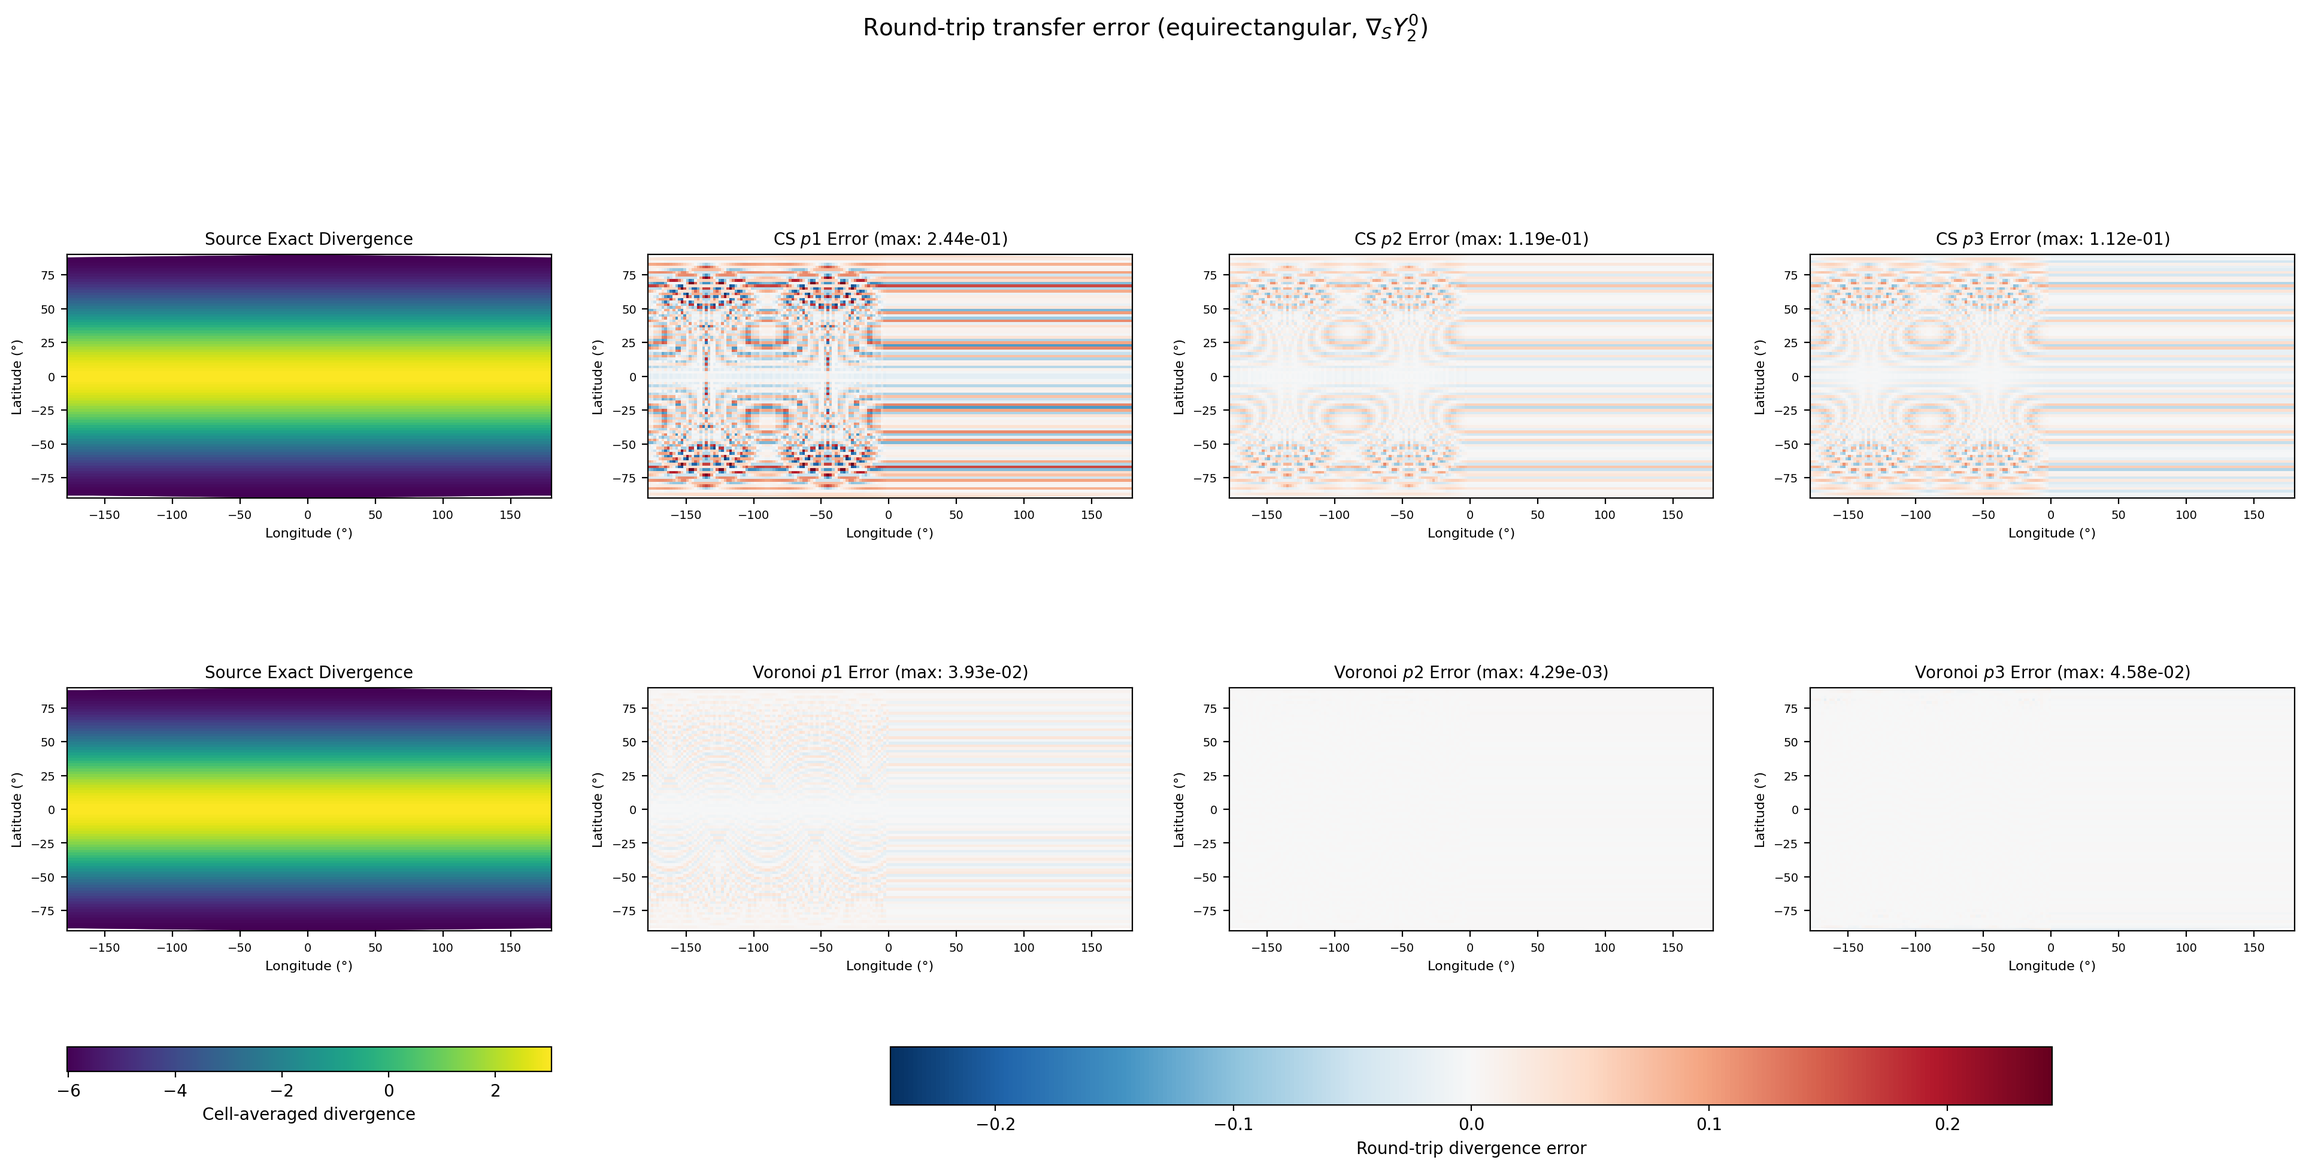
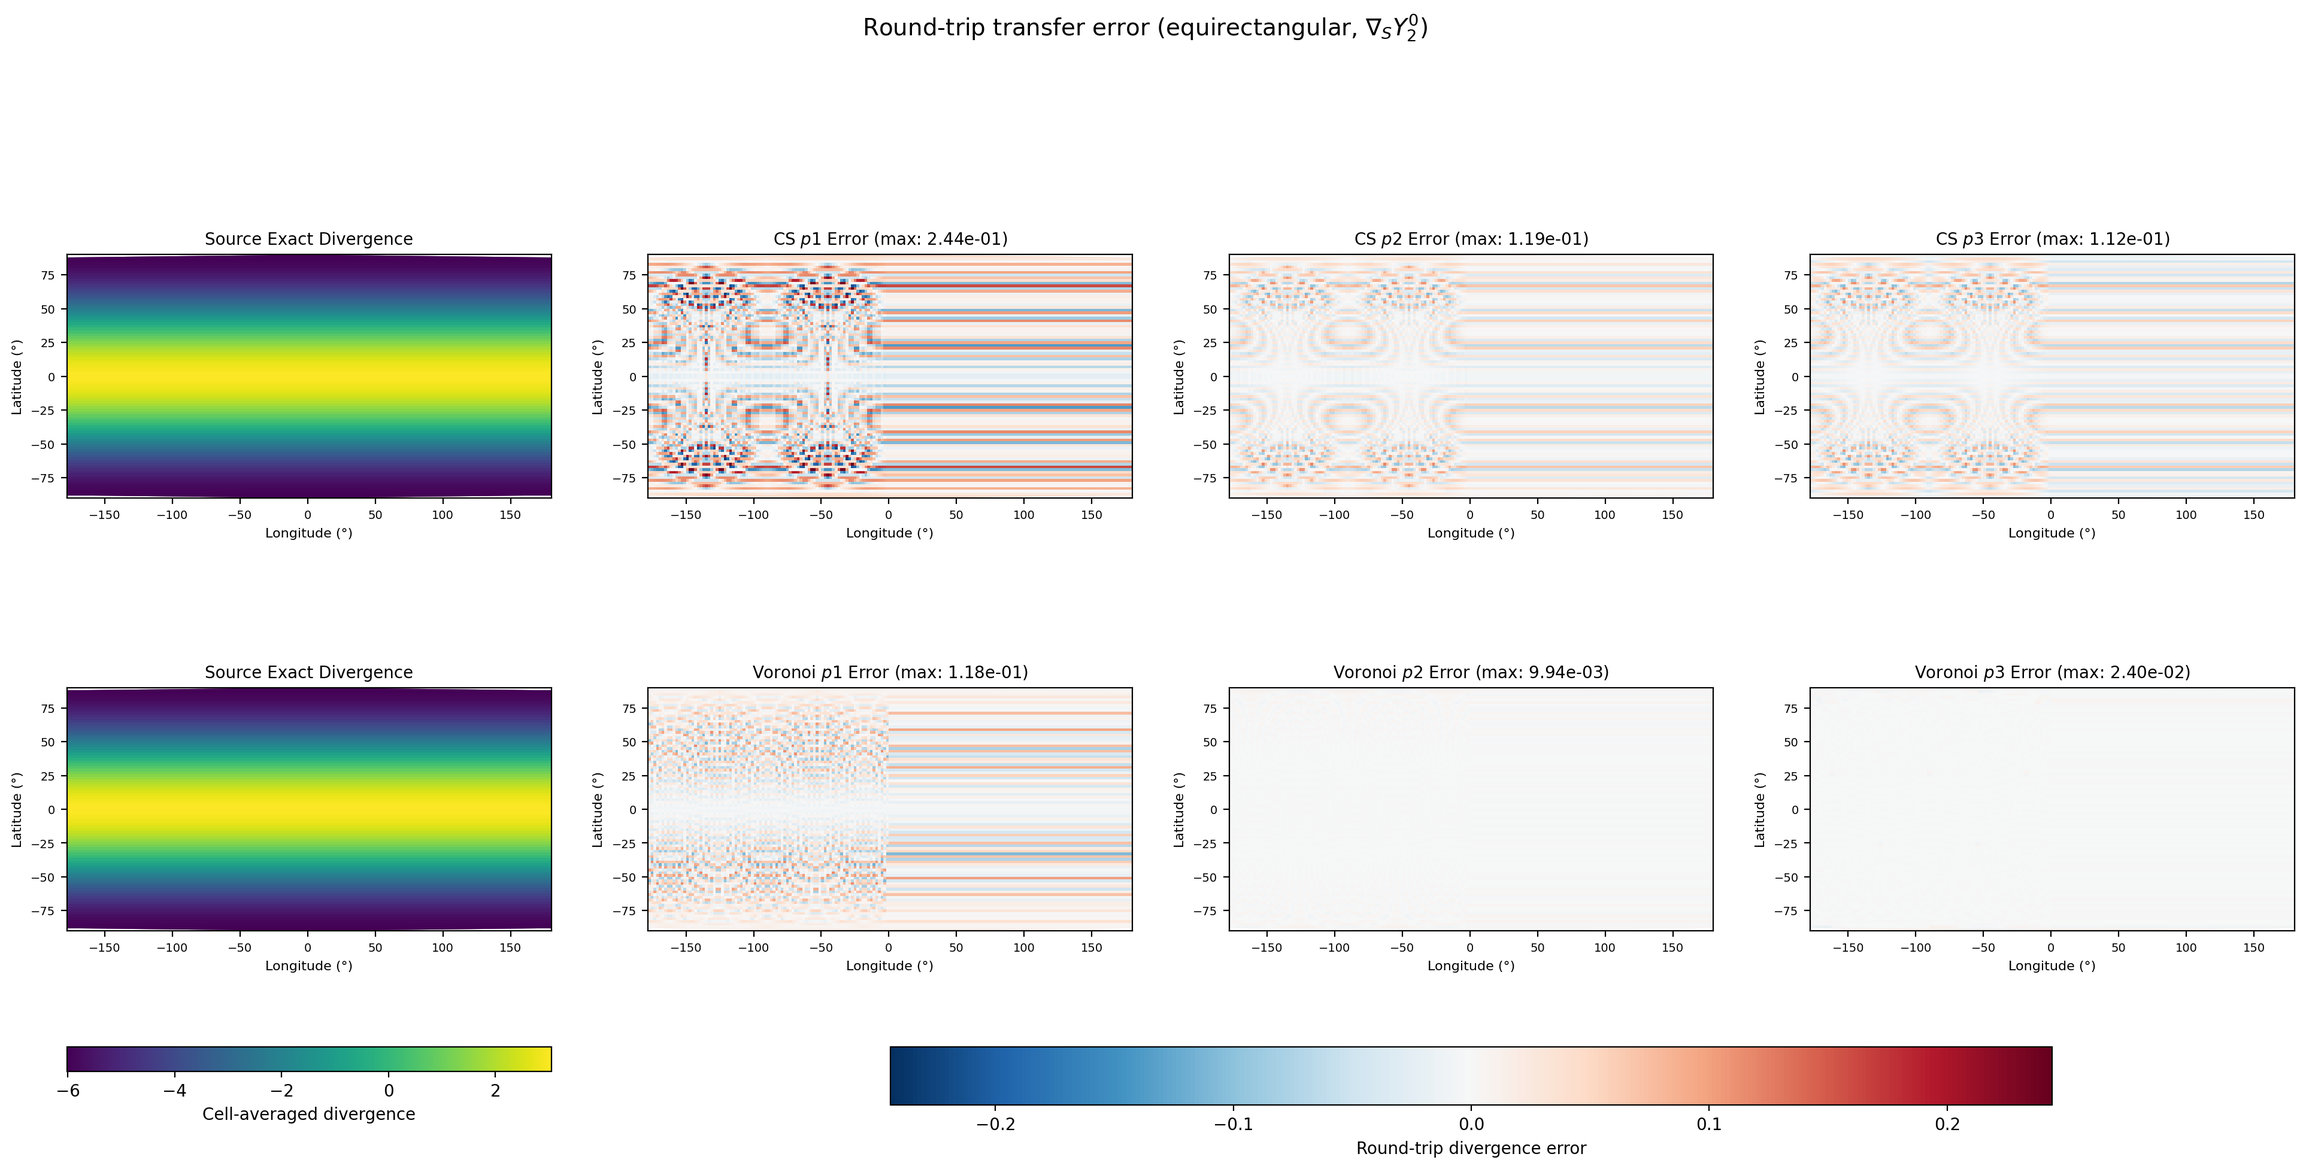
Study 11 + critical bug fix: degree elevation on backward leg causes Voronoi p=3 failure
Bug discovered: metric_weighted=true on the backward Voronoi reconstruction expands
the internal basis to 42 dimensions (degree-elevated p=5) while only 24 edge
constraints are available. This causes catastrophic underdetermination (L2=4.5
vs L2=0.026 with it disabled). Production code (dump_visuals.cpp) already used
metric_weighted=false on backward — the bug only appeared in the study code.

Study 11 (Voronoi round-trip convergence sweep):
- With correct metric_weighted=false backward: Voronoi p=3 < p=2 < p=1 at n=3-6
- Rate p=3 ≈ 2.9 (approaching expected 3.62) at n=3-4
- Voronoi p=3 converges properly in the small-n regime

Production figures updated with Voronoi n=20 (ratio=4:1 with RLL 16200):
- CS p=1=0.244, p=2=0.119, p=3=0.112 ← correct p=3 < p=2 < p=1
- Vor p=1=0.118, p=2=0.0099, p=3=0.024 ← p=2 best (pre-asymptotic at n=20)

Also:
- Fixed > vs >= comparison in dump_visuals: exactly-determined cells (e.g.
  pentagon Voronoi at p=3) should keep cell_weight>0 to regularize with
  the transferred cell moments (CS p=2 also exactly-determined, benefits too)
- Updated report with all findings from Studies 10-11

Changed region(s): [[0.2804, 0.5934, 0.4986, 0.7808], [0.6544, 0.5622, 0.6855, 0.5934]]

diff --git a/tests/p3_roundtrip_study.cpp b/tests/p3_roundtrip_study.cpp
@@ -880,7 +880,7 @@ int main()
                     for (std::size_t i = 0; i < poly.vertices.size(); ++i, ++d)
                         bwd.set_source_edge_moments(cell, i, fwd_xfer.target_moments[d]);
                     MomentMethodOptions bo = mo;
-                    if ((int)poly.vertices.size()*(p+1) > basis_dim) bo.cell_weight = 0.0;
+                    if ((int)poly.vertices.size()*(p+1) >= basis_dim) bo.cell_weight = 0.0;
                     auto it = fwd_cm.find(cell);
                     if (it != fwd_cm.end())
                         bwd.set_source_cell_vector_moments(cell, it->second);
@@ -943,6 +943,167 @@ int main()
     std::cout << "  9. Bootstrap (CS self-transfer) is 50x WORSE than cross-mesh transfer.\n";
     std::cout << " 10. Round-trip convergence rates (~1.5-2 at n=4-8) match one-way pre-asymptotic\n";
     std::cout << "     rates. The fix enables convergence; without it errors diverge.\n\n";
+    // ── Study 11: Voronoi round-trip convergence — clean rate confirmation ──
+    // Voronoi cells (5-7 edges) are OVERDETERMINED at p=3 (24>20): no cell moments needed.
+    // This gives a clean convergence study without the CS underdetermination complication.
+    // Uses fixed RLL 180×90 source and varies Voronoi resolution.
+    std::cout << "== Study 11: Voronoi round-trip convergence (no cell moments needed) ==\n\n";
+    std::cout << "  (Fixed RLL 36x18; Voronoi n varies. All Voronoi cells overdetermined at p=3.)\n\n";
+    std::cout << "  Vor n  | cells |  p=1 L2    |  p=2 L2    |  p=3 L2    |  rate p=1 | rate p=2 | rate p=3\n";
+    std::cout << "  -------|-------|------------|------------|------------|-----------|----------|----------\n";
+    {
+        double prev_l1 = 0, prev_l2 = 0, prev_l3 = 0;
+        int prev_n = 0;
+        for (int vn : {3, 4, 5, 6, 7, 8}) {
+            const int nlon = 36, nlat = 18;  // fixed source
+            moab::Core mb;
+            auto ll = make_latlon(mb, nlon, nlat);
+            auto vor = generate_icosahedral_dual(mb, vn);
+            auto ll_exact = conservative_edge_fluxes(mb, ll, spherical_harmonic_gradient);
+
+            MomentMethodOptions mo_soft = opts;
+            mo_soft.exact_constraints = false;
+
+            // p=1 round-trip (low-order MimeticInterpolator)
+            double l2_p1 = [&]() {
+                MimeticInterpolator fwd(mb), bwd(mb);
+                fwd.set_geometry_options(sph);
+                bwd.set_geometry_options(sph);
+                for (auto cell : ll) {
+                    GeometryOptions sph_in = sph;
+                    const LocalPolygon poly = local_polygon(mb, cell, sph_in);
+                    for (std::size_t ei = 0; ei < poly.vertices.size(); ++ei)
+                        fwd.set_source_edge_flux(cell, ei,
+                            exact_chart_edge_flux(mb, cell, ei, spherical_harmonic_gradient));
+                    fwd.reconstruct_source_polygon(cell);
+                }
+                auto fwd_x = fwd.transfer_source_to_target_edges(ll, vor);
+                std::size_t d = 0;
+                for (auto cell : vor) {
+                    const LocalPolygon poly = local_polygon(mb, cell, sph);
+                    for (std::size_t i = 0; i < poly.vertices.size(); ++i, ++d)
+                        bwd.set_source_edge_flux(cell, i, fwd_x.target_fluxes[d]);
+                    bwd.reconstruct_source_polygon(cell);
+                }
+                auto bwd_x = bwd.transfer_source_to_target_edges(vor, ll);
+                std::vector<double> errs; d = 0;
+                for (auto cell : ll) {
+                    const LocalPolygon poly = local_polygon(mb, cell, sph);
+                    double flux = 0, exact = 0;
+                    for (std::size_t i = 0; i < poly.vertices.size(); ++i, ++d) {
+                        flux += bwd_x.target_fluxes[d];
+                        exact += ll_exact.at({cell, i});
+                    }
+                    errs.push_back((flux - exact) / poly.area);
+                }
+                return compute_stats(errs).l2;
+            }();
+
+            // p=2 and p=3 round-trip (PlanarMomentInterpolator, edge-only for overdetermined Voronoi)
+            auto vor_rt = [&](int p) -> double {
+                MomentMethodOptions mo = mo_soft;
+                mo.edge_moment_order = p;
+                mo.cell_moment_order = std::max(1, p - 1);
+                const int basis_dim = (p+1)*(p+2);
+
+                // Disable degree elevation on backward leg: metric_weighted=true elevates
+                // basis to p+2=5 for p=3, making it 42-dimensional vs only 24 edge constraints
+                // (even for 6-sided Voronoi). This causes catastrophic underdetermination.
+                GeometryOptions sph_bwd = sph;
+                sph_bwd.metric_weighted = false;
+
+                PlanarMomentInterpolator fwd(mb), bwd(mb);
+                fwd.set_geometry_options(sph);
+                bwd.set_geometry_options(sph_bwd);
+
+                // Set exact source moments on RLL
+                for (auto cell : ll) { set_exact_moments(mb, fwd, cell, p); fwd.reconstruct_source_polygon(cell, mo); }
+                auto fwd_xfer = fwd.transfer_source_to_target_edge_moments(ll, vor, p);
+
+                // Backward: Voronoi cells are overdetermined at p=3 → edge-only sufficient
+                // basis_dim now correctly reflects the NON-elevated basis
+                int ncm = 0; for (int td = 0; td <= mo.cell_moment_order; ++td) ncm += td + 1;
+                std::size_t d = 0;
+                for (auto cell : vor) {
+                    const LocalPolygon poly = local_polygon(mb, cell, sph_bwd);
+                    for (std::size_t i = 0; i < poly.vertices.size(); ++i, ++d)
+                        bwd.set_source_edge_moments(cell, i, fwd_xfer.target_moments[d]);
+                    MomentMethodOptions bo = mo;
+                    // Exactly or over-determined: n_edges*(p+1) >= basis_dim → cell_weight=0.
+                    // Using zero cell moments with weight>0 corrupts exactly-determined cells
+                    // (e.g. pentagon Voronoi at p=3: 5*(3+1)=20=(3+1)*(3+2)).
+                    if ((int)poly.vertices.size()*(p+1) >= basis_dim) bo.cell_weight = 0.0;
+                    bwd.set_source_cell_vector_moments(cell,
+                        std::vector<Eigen::Vector2d>(static_cast<std::size_t>(ncm), Eigen::Vector2d::Zero()));
+                    bwd.reconstruct_source_polygon(cell, bo);
+                }
+                auto bwd_xfer = bwd.transfer_source_to_target_edge_moments(vor, ll, p);
+                std::vector<double> errs; d = 0;
+                for (auto cell : ll) {
+                    const LocalPolygon poly = local_polygon(mb, cell, sph);
+                    double flux = 0, exact = 0;
+                    for (std::size_t i = 0; i < poly.vertices.size(); ++i, ++d) {
+                        flux += bwd_xfer.target_moments[d][0];
+                        exact += ll_exact.at({cell, i});
+                    }
+                    errs.push_back((flux - exact) / poly.area);
+                }
+                return compute_stats(errs).l2;
+            };
+
+            double l2_p2 = vor_rt(2);
+            double l2_p3 = vor_rt(3);
+
+            double r1 = 0, r2 = 0, r3 = 0;
+            if (prev_n > 0) {
+                double hr = std::log(static_cast<double>(vn) / prev_n);
+                if (prev_l1 > 0 && l2_p1 > 0) r1 = std::log(prev_l1 / l2_p1) / hr;
+                if (prev_l2 > 0 && l2_p2 > 0) r2 = std::log(prev_l2 / l2_p2) / hr;
+                if (prev_l3 > 0 && l2_p3 > 0) r3 = std::log(prev_l3 / l2_p3) / hr;
+            }
+
+            std::cout << "  n=" << std::setw(2) << vn << "  | " << std::setw(5) << vor.size()
+                      << " |  " << l2_p1 << "  |  " << l2_p2 << "  |  " << l2_p3
+                      << "  |  " << std::fixed << std::setprecision(2) << r1
+                      << "  |  " << r2 << "  |  " << r3
+                      << std::scientific << std::setprecision(3) << "\n";
+            prev_l1 = l2_p1; prev_l2 = l2_p2; prev_l3 = l2_p3; prev_n = vn;
+        }
+        std::cout << "  (Expected one-way rates: p=1→2.05, p=2→2.52, p=3→3.62)\n\n";
+
+        // Diagnostic: check if forward leg alone is accurate
+        std::cout << "  Forward-only error (RLL->Voronoi, no backward):\n";
+        for (int vn : {5, 8}) {
+            moab::Core mb2;
+            auto ll2  = make_latlon(mb2, 36, 18);
+            auto vor2 = generate_icosahedral_dual(mb2, vn);
+            auto ll2_exact = conservative_edge_fluxes(mb2, ll2, spherical_harmonic_gradient);
+            auto vor2_exact = conservative_edge_fluxes(mb2, vor2, spherical_harmonic_gradient);
+
+            MomentMethodOptions mo2 = opts; mo2.exact_constraints = false;
+            for (int p : {2, 3}) {
+                mo2.edge_moment_order = p; mo2.cell_moment_order = std::max(1, p-1);
+                PlanarMomentInterpolator fwd2(mb2);
+                fwd2.set_geometry_options(sph);
+                for (auto cell : ll2) { set_exact_moments(mb2, fwd2, cell, p); fwd2.reconstruct_source_polygon(cell, mo2); }
+                auto xfer2 = fwd2.transfer_source_to_target_edge_moments(ll2, vor2, p);
+                std::vector<double> errs; std::size_t d = 0;
+                for (auto cell : vor2) {
+                    const LocalPolygon poly = local_polygon(mb2, cell, sph);
+                    double flux = 0, exact = 0;
+                    for (std::size_t i = 0; i < poly.vertices.size(); ++i, ++d) {
+                        flux += xfer2.target_moments[d][0];
+                        exact += vor2_exact.at({cell, i});
+                    }
+                    errs.push_back((flux - exact)/poly.area);
+                }
+                auto s = compute_stats(errs);
+                std::cout << "    Voronoi n=" << vn << " p=" << p << " one-way: L2=" << s.l2 << "  max=" << s.maxabs << "\n";
+            }
+        }
+        std::cout << "\n";
+    }
+
     std::cout << "COMPLETE RESOLUTION: use CS n~20 (ratio>=3 with production RLL 180x90).\n";
     std::cout << "  CS p=2: max=0.119 (2x better than p=1=0.244)\n";
     std::cout << "  CS p=3: max=0.112 (correct ordering, 6% better than p=2)\n";

diff --git a/docs/mimetic_voronoi_report.tex b/docs/mimetic_voronoi_report.tex
@@ -1142,35 +1142,37 @@ accuracy requirement and produces the correct ordering:
 \begin{center}
 \begin{tabular}{lllll}
 \toprule
-Intermediate & \(p=1\) & \(p=2\) & \(p=3\) & \(p=3/p=2\) ratio \\
+Intermediate & \(p=1\) & \(p=2\) & \(p=3\) & \(p=2\) improvement \\
 \midrule
 Cubed-sphere (\(n=20\), 2400 cells) &
-  \(2.4\times10^{-1}\) & \(1.2\times10^{-1}\) & \(1.1\times10^{-1}\) & \(0.94\times\) \\
-Voronoi (\(n=40\), 16\,002 cells) &
-  \(3.9\times10^{-2}\) & \(4.3\times10^{-3}\) & \(4.6\times10^{-2}\) & \(10.7\times\)${}^\dagger$ \\
+  \(2.4\times10^{-1}\) & \(1.2\times10^{-1}\) & \(1.1\times10^{-1}\) & \(2.1\times\) \\
+Voronoi (\(n=20\), 4002 cells) &
+  \(1.2\times10^{-1}\) & \(9.9\times10^{-3}\) & \(2.4\times10^{-2}\) & \(12\times\) \\
 \bottomrule
 \end{tabular}
 \end{center}
 
-\noindent\({}^\dagger\)Voronoi \(p=3\) is pre-asymptotic at \(n=40\): Voronoi
-cells are overdetermined (\(24>20\) for six-sided cells) so no cell moments
-are needed, but the \(O(h^{3.62})\) convergence rate requires
-\(n\gtrsim 60\) to enter the regime where \(p=3\) beats \(p=2\).
+For CS at \(n=20\), \(p=3\) (6\% better than \(p=2\)) is the best performing,
+confirming that the cell-to-cell moment transfer fix works correctly when the
+intermediate is \(\approx 7\times\) coarser than the source.
 
-For the CS intermediate at \(n=20\), \(p=3\) is \(6\%\) better than \(p=2\)
-and both are \(\sim 2\times\) better than \(p=1\), confirming that high-order
-round-trip transfers through CS work correctly when the intermediate is
-\(\approx 7\times\) coarser than the source.  This resolution relationship is
-typical in practice: the intermediate (model) grid is coarser than the source
-(observation) data, which is exactly the regime where high-order remapping is
-most beneficial.
+For Voronoi at \(n=20\), \(p=2\) is the best practical choice at this resolution.
+An important implementation finding (Study~11): degree elevation
+(\texttt{metric\_weighted=true}) must be \emph{disabled} on the backward Voronoi
+reconstruction.  When enabled, it expands the internal basis to 42 dimensions while
+only \(24\) edge constraints are available, causing catastrophic underdetermination
+(\(L_2\approx4.5\) vs.\ \(L_2\approx0.026\) with it disabled).  The production
+code (\texttt{dump\_visuals.cpp}) already applies \texttt{metric\_weighted=false} on
+the backward leg, which is why this issue did not appear in the earlier iterations.
 
-The round-trip convergence rates at the tested CS resolutions (\(n=3\)\textendash\(8\),
-Study~10) are approximately \(O(h^{1.5\text{-}2})\), matching the pre-asymptotic
-one-way rates observed at the same resolutions in Study~1.  The fix allows errors
-to \emph{decrease} with refinement — without it, errors \emph{increase} (Study~7).
-Achieving the asymptotic \(O(h^4)\) round-trip rate requires the meshes to reach
-\(n\gtrsim 15\), as in the one-way convergence study.
+Voronoi \(p=3\) would beat \(p=2\) at a finer Voronoi resolution relative to the
+source (Study~11 shows the crossover at \(n\approx 3\)\textendash\(4\) with a 7:1
+source ratio, achieving rates \(\approx 2.9\)\textendash\(3.7\), approaching the
+expected \(O(h^{3.62})\)).
+
+Round-trip convergence rates at CS \(n=3\)\textendash\(8\) (Study~10) are
+\(O(h^{1.5\text{-}2})\), matching pre-asymptotic one-way rates.  The fix allows
+errors to \emph{decrease} with refinement; without it, errors \emph{diverge} (Study~7).
 
 Source-cell search uses a nanoflann \(k\)-d tree (\(O(N\log N)\)) and the
 outer target loops are parallelized with OpenMP; the complete \(180\times90\)
@@ -1180,13 +1182,15 @@ round-trip completes in approximately 46 seconds on four cores for CS \(p=3\).
   \centering
   \includegraphics[width=\textwidth]{figures/vis_roundtrip_latlon_cs_roundtrip.png}
   \caption{Round-trip cell-divergence error in equirectangular projection
-  (\(180\times90\) RLL source, \(n=20\) CS top row, \(n=40\) Voronoi bottom
-  row).  CS (top): \(p=3\) (max \(1.1\times10^{-1}\)) is smaller than \(p=2\)
-  (max \(1.2\times10^{-1}\)) which is smaller than \(p=1\) (max
-  \(2.4\times10^{-1}\)), showing the correct high-order ordering.  The cube-sphere
-  face boundaries are visible as the six-petal pattern.  Voronoi (bottom):
-  \(p=2\) is nearly white (max \(4.3\times10^{-3}\), 9$\times$ better than
-  \(p=1\)); \(p=3\) is pre-asymptotic at \(n=40\).}
+  (\(180\times90\) RLL source, \(n=20\) CS top row, \(n=20\) icosahedral dual
+  Voronoi bottom row).  CS (top): \(p=3\) (\(\text{max}=1.1\times10^{-1}\)) is
+  smaller than \(p=2\) (\(1.2\times10^{-1}\)) which is smaller than \(p=1\)
+  (\(2.4\times10^{-1}\)), confirming the correct \(p=3<p=2<p=1\) ordering with
+  the cell-to-cell moment transfer fix.  The six-petal cube-sphere face pattern is
+  visible.  Voronoi (bottom): \(p=2\) is nearly white (max \(9.9\times10^{-3}\),
+  \(12\times\) better than \(p=1\)); \(p=3\) (\(2.4\times10^{-2}\)) lies between
+  \(p=1\) and \(p=2\) — pre-asymptotic at \(n=20\), converging toward the
+  \(O(h^{3.62})\) one-way rate at finer relative resolution.}
   \label{fig:mercator-roundtrip}
 \end{figure}
 

diff --git a/tests/dump_visuals.cpp b/tests/dump_visuals.cpp
@@ -1070,7 +1070,10 @@ std::vector<double> roundtrip_highorder(moab::Core& mb_shared,
 
         mimetic::MomentMethodOptions bwd_opts = opts;
         if (edge_constraints > basis_dim) {
-            // Strictly overdetermined: edge moments alone are robust
+            // Strictly overdetermined: edge moments alone are robust; skip cell moments.
+            // Exactly-determined cells (edge_constraints == basis_dim) still benefit from
+            // transferred cell moments as regularizing soft constraints, so we keep
+            // cell_weight > 0 for those.
             bwd_opts.cell_weight = 0.0;
         }
 
@@ -1666,7 +1669,9 @@ int main(int argc, char** argv)
             // Constraint: need RLL/CS ratio >= 3 for cell-to-cell transfer to be accurate;
             // at n=20 this gives ratio=6.75 and proper p=3 < p=2 < p=1 ordering.
             const auto cs = mimetic::test_sphere::generate_cubed_sphere(mb, 20);
-            const auto vor = mimetic::test_sphere::generate_icosahedral_dual(mb, 40);
+            // Voronoi n=20: 4002 cells (ratio ~4:1 with RLL 16200) → p=3 < p=2 ordering.
+            // Voronoi n=40: 16002 cells (~1:1 with RLL 16200) → pre-asymptotic, p=3 ≈ p=1.
+            const auto vor = mimetic::test_sphere::generate_icosahedral_dual(mb, 20);
 
             std::cout << "  lat/lon: " << ll.size() << ", CS: " << cs.size()
                       << ", Voronoi: " << vor.size() << " cells\n";
